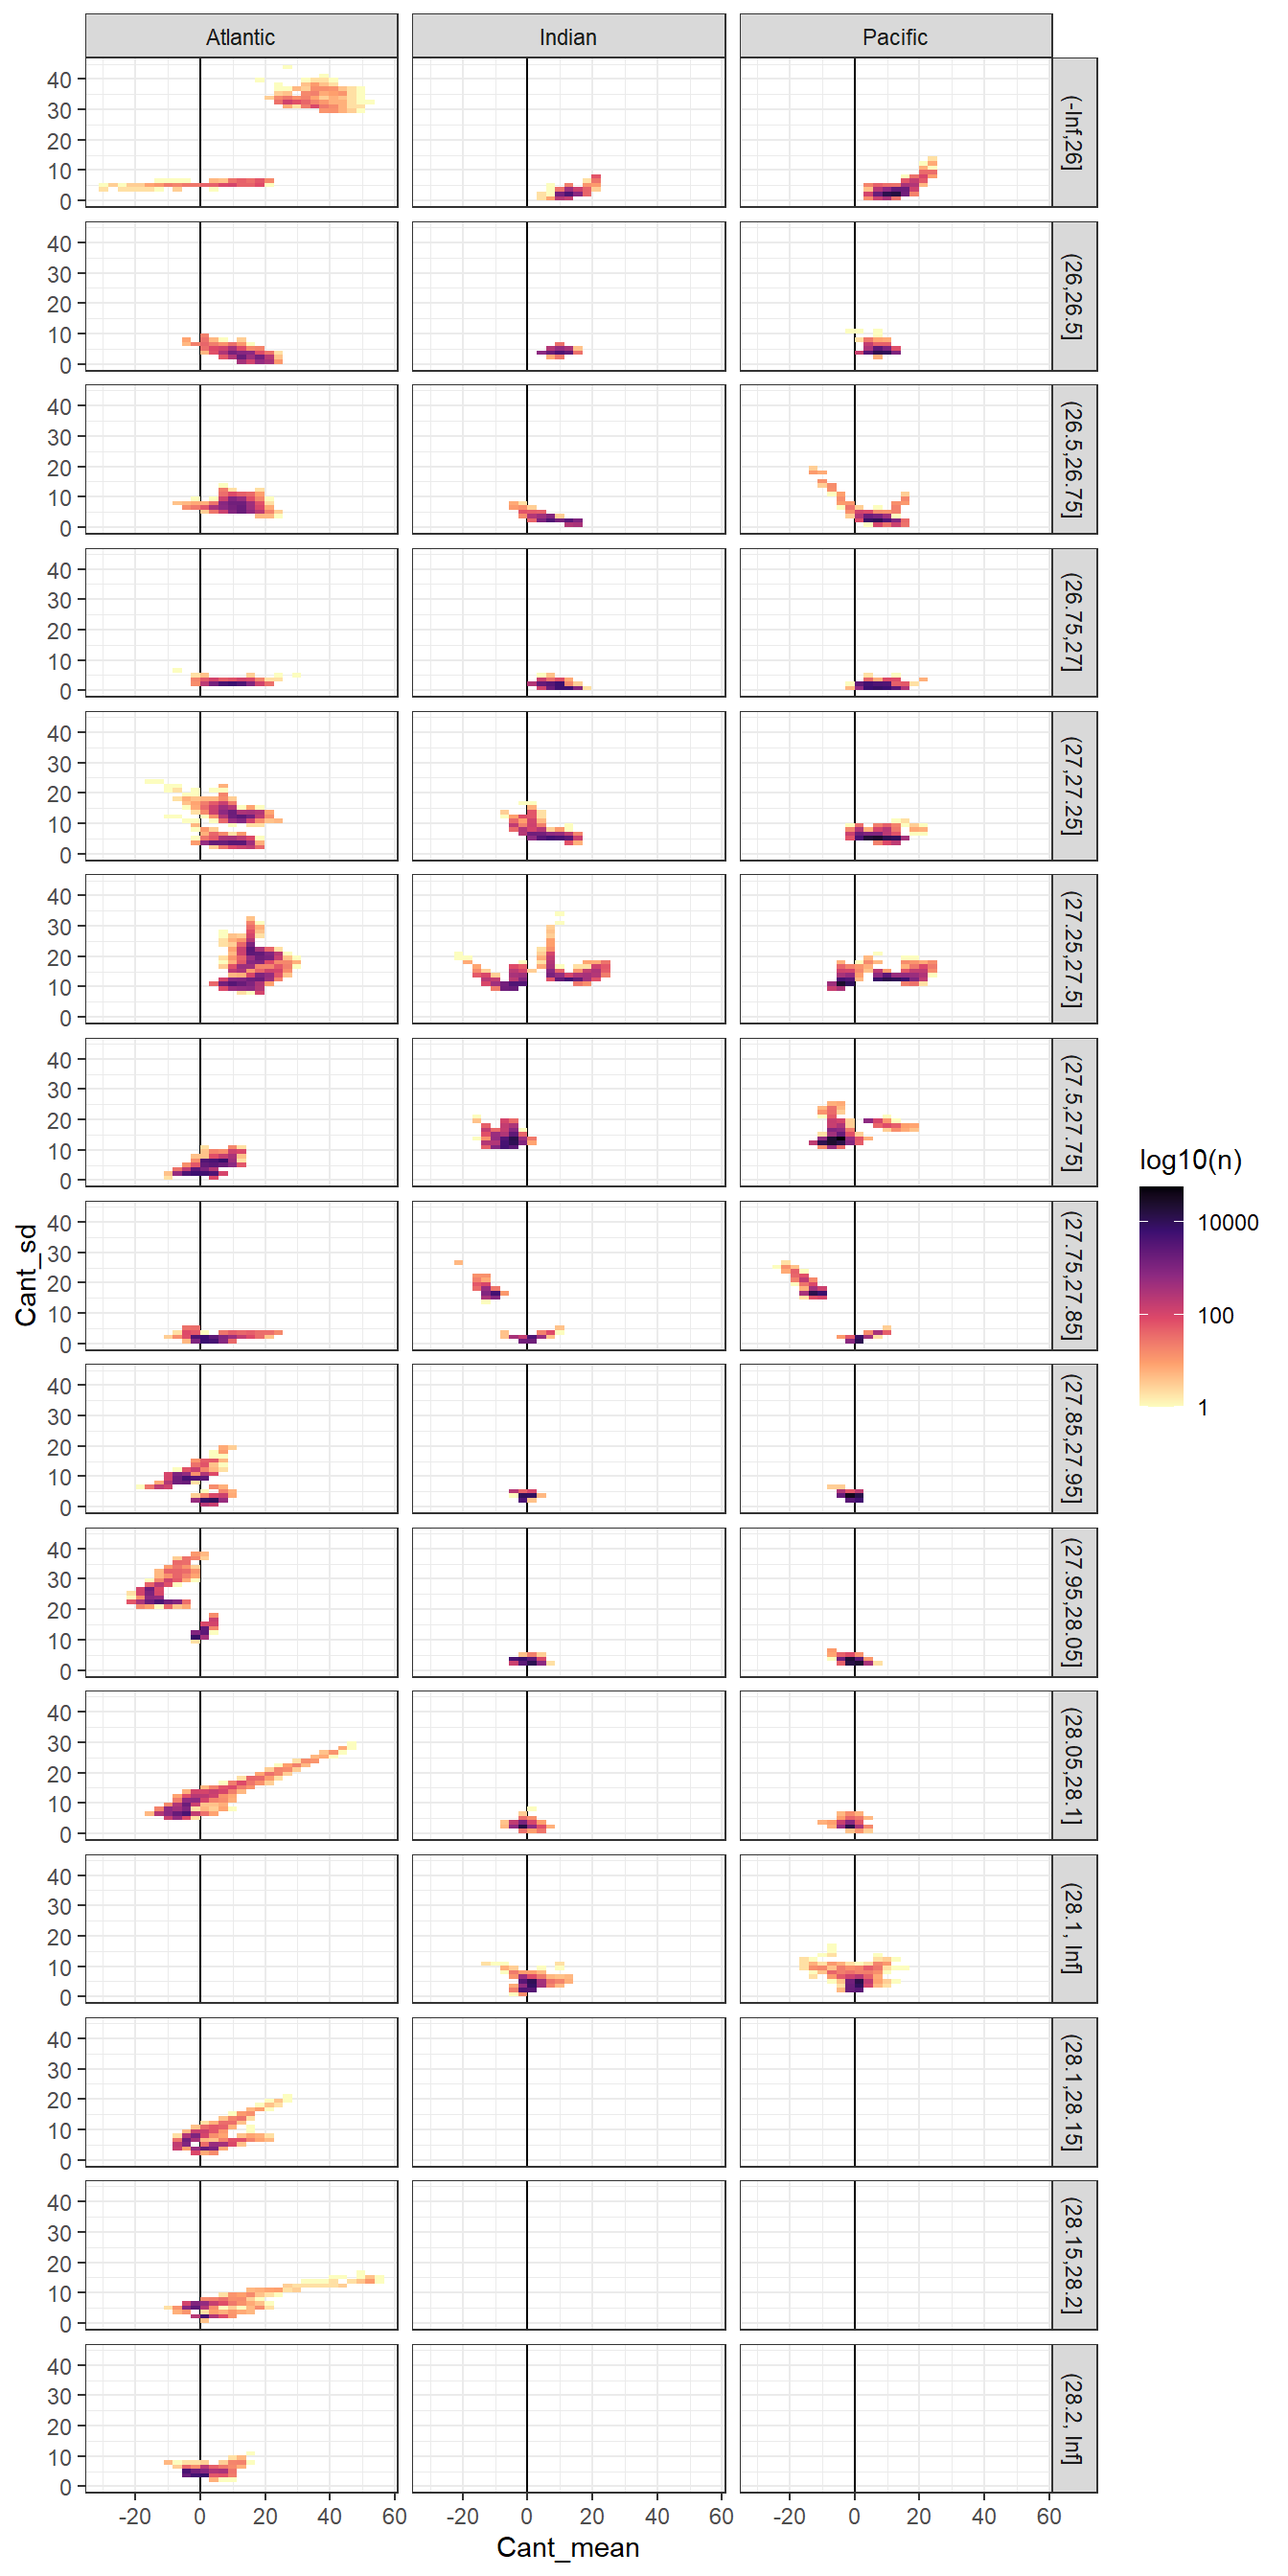
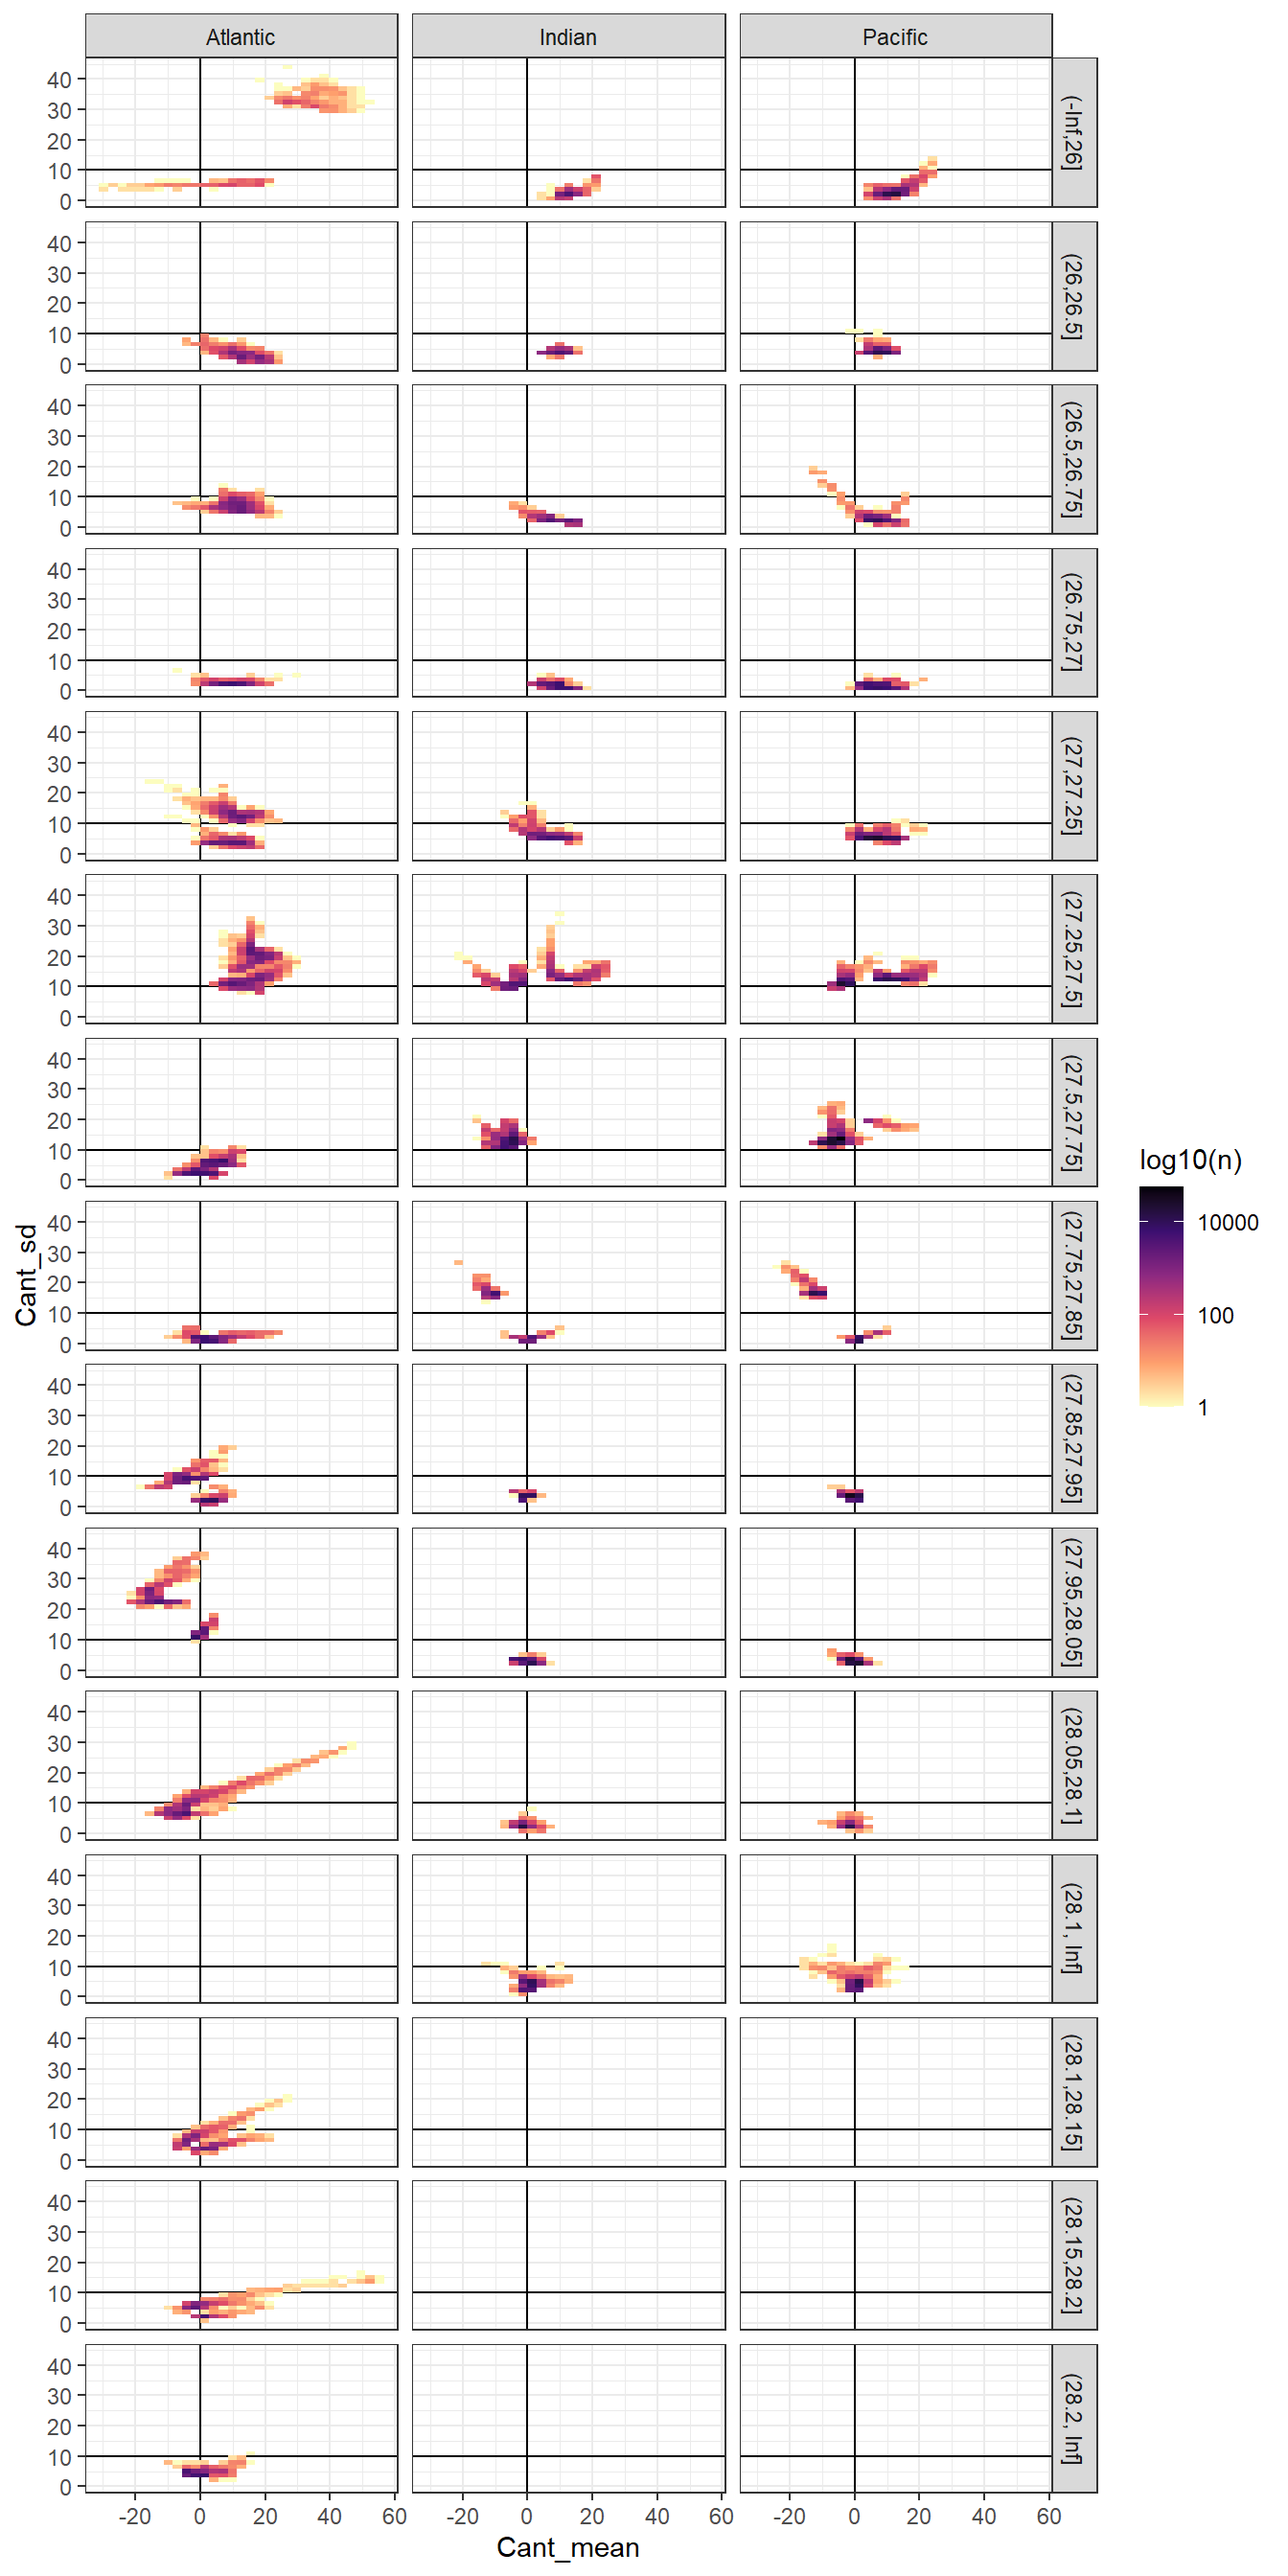
Build site.

diff --git a/docs/analysis_this_study.html b/docs/analysis_this_study.html
@@ -615,16 +615,16 @@ This reproducible <a href="http://rmarkdown.rstudio.com">R Markdown</a> analysis
 <div class="panel panel-default">
 <div class="panel-heading">
 <p class="panel-title">
-<a data-toggle="collapse" data-parent="#workflowr-checks" href="#strongRepositoryversionstrongahrefhttpsgithubcomjensdanielmuellerCanteMLRtree7f3a67194110784251b94365ed098fdfd520a5eetargetblank7f3a671a"> <span class="glyphicon glyphicon-ok text-success" aria-hidden="true"></span> <strong>Repository version:</strong> <a href="https://github.com/jens-daniel-mueller/Cant_eMLR/tree/7f3a67194110784251b94365ed098fdfd520a5ee" target="_blank">7f3a671</a> </a>
+<a data-toggle="collapse" data-parent="#workflowr-checks" href="#strongRepositoryversionstrongahrefhttpsgithubcomjensdanielmuellerCanteMLRtreece109c0ae517c6275a65284485967fbf223c9222targetblankce109c0a"> <span class="glyphicon glyphicon-ok text-success" aria-hidden="true"></span> <strong>Repository version:</strong> <a href="https://github.com/jens-daniel-mueller/Cant_eMLR/tree/ce109c0ae517c6275a65284485967fbf223c9222" target="_blank">ce109c0</a> </a>
 </p>
 </div>
[2 lines of base64/hex data omitted]
 <div class="panel-body">
 <p>
 Great! You are using Git for version control. Tracking code development and connecting the code version to the results is critical for reproducibility.
 </p>
 <p>
-The results in this page were generated with repository version <a href="https://github.com/jens-daniel-mueller/Cant_eMLR/tree/7f3a67194110784251b94365ed098fdfd520a5ee" target="_blank">7f3a671</a>. See the <em>Past versions</em> tab to see a history of the changes made to the R Markdown and HTML files.
+The results in this page were generated with repository version <a href="https://github.com/jens-daniel-mueller/Cant_eMLR/tree/ce109c0ae517c6275a65284485967fbf223c9222" target="_blank">ce109c0</a>. See the <em>Past versions</em> tab to see a history of the changes made to the R Markdown and HTML files.
 </p>
 <p>
 Note that you need to be careful to ensure that all relevant files for the analysis have been committed to Git prior to generating the results (you can use <code>wflow_publish</code> or <code>wflow_git_commit</code>). workflowr only checks the R Markdown file, but you know if there are other scripts or data files that it depends on. Below is the status of the Git repository when the results were generated:
@@ -632,7 +632,6 @@ Note that you need to be careful to ensure that all relevant files for the analy
 <pre><code>
 Ignored files:
     Ignored:    .Rproj.user/
-    Ignored:    analysis/figure/
     Ignored:    data/GLODAPv1_1/
     Ignored:    data/GLODAPv2_2016b_MappedClimatologies/
     Ignored:    data/GLODAPv2_2020/
@@ -682,6 +681,40 @@ Message
 </tr>
 </thead>
 <tbody>
+<tr>
+<td>
+Rmd
+</td>
+<td>
+<a href="https://github.com/jens-daniel-mueller/Cant_eMLR/blob/ce109c0ae517c6275a65284485967fbf223c9222/analysis/analysis_this_study.Rmd" target="_blank">ce109c0</a>
+</td>
+<td>
+jens-daniel-mueller
+</td>
+<td>
+2020-08-26
+</td>
+<td>
+Cant vs SD plotted
+</td>
+</tr>
+<tr>
+<td>
+html
+</td>
+<td>
+<a href="https://rawcdn.githack.com/jens-daniel-mueller/Cant_eMLR/e95113567cf0e1bfa429edcea109f40d164ea88a/docs/analysis_this_study.html" target="_blank">e951135</a>
+</td>
+<td>
+jens-daniel-mueller
+</td>
+<td>
+2020-08-26
+</td>
+<td>
+Build site.
+</td>
+</tr>
 <tr>
 <td>
 Rmd
@@ -1017,6 +1050,7 @@ Cant_average_zonal %&gt;%
 <pre class="r"><code>Cant_average %&gt;% 
   ggplot(aes(Cant_mean, Cant_sd)) +
   geom_vline(xintercept = 0) +
+  geom_hline(yintercept = 10) +
   geom_bin2d() +
   scale_fill_viridis_c(option = &quot;magma&quot;,
                        direction = -1,
@@ -1027,6 +1061,7 @@ Cant_average_zonal %&gt;%
 <pre class="r"><code>Cant_average %&gt;% 
   ggplot(aes(Cant_mean, Cant_sd)) +
   geom_vline(xintercept = 0) +
+  geom_hline(yintercept = 10) +
   geom_bin2d() +
   scale_fill_viridis_c(option = &quot;magma&quot;,
                        direction = -1,
